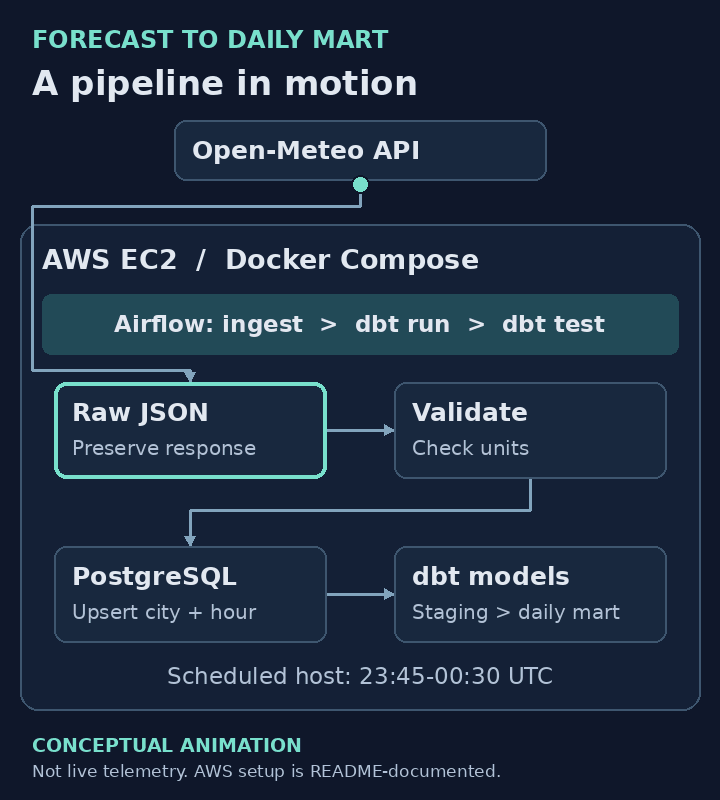
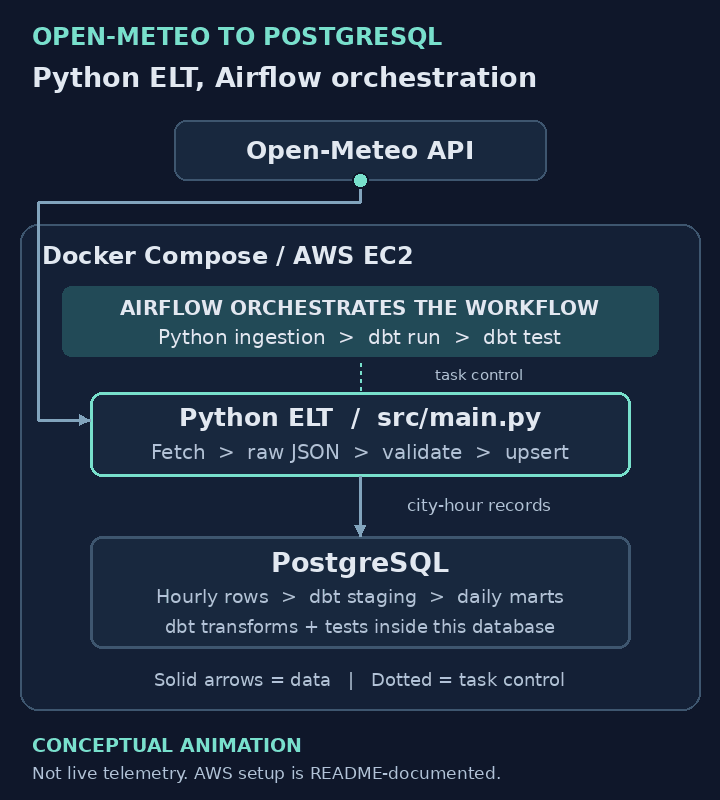
Feature Weather architecture with explicit tools and correct ELT flow

diff --git a/ui/portfolio.css b/ui/portfolio.css
@@ -454,3 +454,84 @@ button[kind="primaryFormSubmit"]:focus-visible,
 button[kind="primaryFormSubmit"]:active { background: #A2F0DF !important; border-color: #A2F0DF !important; }
 a.portfolio-button, a.portfolio-button:hover,
 a.portfolio-button:focus-visible { text-decoration: none !important; }
+
+
+/* Featured Weather architecture: tools, data path and control plane stay distinct. */
+.pa-project-weather, .pa-project-weather.pa-project-compact {
+    grid-column: 1 / -1; display: flex; flex-direction: column; gap: 22px;
+    padding: 22px; container-type: inline-size; container-name: weather-card;
+    border-color: #3D626C; background: #121F33;
+}
+.wxa { width: 100%; background: #0E192B; border: 1px solid #30475E; border-radius: 10px; padding: 20px; }
+.wxa-heading { display: flex; flex-wrap: wrap; justify-content: space-between; gap: 8px; margin-bottom: 20px; color: #9EB6D0; font: 9px/1.6 monospace; letter-spacing: .1em; }
+.wxa-heading > span:last-child { color: #78E1CD; }
+.wxa-icon { width: 30px; height: 30px; flex: 0 0 30px; color: #8DAFCB; }
+.wxa-icon-python { color: #F2D284; }
+.wxa-icon-postgres { color: #8AB7E5; }
+.wxa-icon-airflow { color: #78E1CD; }
+.wxa-icon-dbt { color: #FFB7A3; }
+.wxa-icon-docker { color: #82C5EB; }
+.wxa-icon-aws { color: #F2C17C; }
+.wxa-orchestrator { display: flex; align-items: center; justify-content: space-between; flex-wrap: wrap; gap: 16px; border: 1px solid #3F776F; border-left: 3px solid #78E1CD; border-radius: 6px; padding: 14px 16px; background: #17313B; }
+.wxa-tool { display: flex; align-items: center; gap: 12px; }
+.wxa-tool strong { color: #E2F8F3; font-size: 14px; display: block; font-weight: 650; }
+.wxa-tool span { display: block; color: #A9C9CD; font-size: 11px; margin-top: 3px; }
+.wxa-tasks { display: flex; flex-wrap: wrap; align-items: center; gap: 6px; color: #CBE2E5; font: 10px/1.6 monospace; }
+.wxa-tasks > span { border: 1px solid #385C65; border-radius: 4px; padding: 4px 6px; background: #142B36; }
+.wxa-tasks b { color: #78E1CD; font-weight: 400; }
+.wxa-control { height: 38px; display: flex; align-items: center; justify-content: center; color: #A2C5CA; font: 10px/1.5 monospace; }
+.wxa-control span { background: #0E192B; padding: 3px 10px; border-left: 1px dashed #619F9A; border-right: 1px dashed #619F9A; }
+.wxa-data-path { display: grid; grid-template-columns: minmax(0,.9fr) 22px minmax(0,1fr) 22px minmax(0,1.15fr); align-items: stretch; gap: 8px; }
+.wxa-node { display: flex; align-items: flex-start; gap: 12px; min-width: 0; background: #16263B; border: 1px solid #354D68; border-radius: 7px; padding: 16px 12px; }
+.wxa-node > div { min-width: 0; flex: 1; }
+.wxa-node .wxa-icon { width: 24px; height: 24px; flex-basis: 24px; margin-top: 18px; }
+.wxa-node small { display: block; color: #9AB4CE; font: 8px/1.5 monospace; letter-spacing: .05em; margin-bottom: 7px; }
+.wxa-node strong { color: #E2EAF6; font-size: 13px; line-height: 1.5; display: block; }
+.wxa-node div > span { color: #B5C7DC; font-size: 11px; line-height: 1.7; display: block; margin-top: 6px; }
+.wxa-source { background: #111E30; border-style: dashed; }
+.wxa-python { border-top: 2px solid #F2D284; }
+.wxa-database { border-top: 2px solid #8AB7E5; }
+.wxa-arrow { align-self: center; text-align: center; color: #78E1CD; font-size: 22px; line-height: 1; }
+.wxa-dbt { display: flex; align-items: center; gap: 7px; border-top: 1px solid #42526A; padding-top: 9px; margin-top: 9px; }
+.wxa-dbt .wxa-icon { width: 16px; height: 16px; flex-basis: 16px; margin: 0; }
+.wxa-dbt > span { color: #C6D4E4 !important; font-size: 10px !important; line-height: 1.6 !important; margin: 0 !important; }
+.wxa-dbt b { color: #FFB7A3; font-size: 12px; }
+.wxa-runtime { display: flex; flex-wrap: wrap; gap: 14px 26px; padding-top: 16px; margin-top: 17px; border-top: 1px solid #2D4057; }
+.wxa-runtime > div { display: flex; align-items: center; gap: 9px; }
+.wxa-runtime .wxa-icon { width: 24px; height: 24px; flex-basis: 24px; }
+.wxa-runtime strong { display: block; color: #D0DDED; font-size: 11px; line-height: 1.6; }
+.wxa-runtime small { display: block; color: #A0B6CE; font-size: 10px; line-height: 1.7; }
+.wxa-note { color: #A2B6CE !important; font-size: 10px !important; line-height: 1.7 !important; margin: 14px 0 0 !important; }
+@container weather-card (max-width: 520px) {
+    .wxa { padding: 16px; }
+    .wxa-data-path { grid-template-columns: 1fr; gap: 6px; }
+    .wxa-arrow { transform: rotate(90deg); padding: 2px 0; font-size: 20px; }
+    .wxa-node { align-items: flex-start; padding: 13px 15px; gap: 14px; }
+    .wxa-node .wxa-icon { width: 30px; height: 30px; flex-basis: 30px; margin-top: 10px; }
+    .wxa-node strong { font-size: 14px; }
+    .wxa-node small { font-size: 9px; margin-bottom: 3px; }
+    .wxa-node div > span { font-size: 12px; margin-top: 3px; }
+    .wxa-dbt { padding-top: 7px; margin-top: 7px; }
+    .wxa-dbt .wxa-icon { width: 17px; height: 17px; flex-basis: 17px; margin: 0; }
+    .wxa-dbt > span { font-size: 11px !important; }
+    .wxa-orchestrator { padding: 12px; gap: 12px; }
+    .wxa-tasks { font-size: 9px; gap: 4px; }
+    .wxa-tasks > span { padding: 4px; }
+    .wxa-control { height: 35px; font-size: 9px; }
+}
+@media (max-width: 600px) {
+    .pa-project-weather, .pa-project-weather.pa-project-compact { padding: 14px; }
+    .wxa-heading { font-size: 8px; letter-spacing: .04em; margin-bottom: 13px; }
+    .wxa-heading > span:last-child { display: none; }
+}
+
+@container weather-card (min-width: 521px) {
+    .wxa-node { flex-direction: column; gap: 8px; }
+    .wxa-node .wxa-icon { margin: 0; }
+    .wxa-node > div { width: 100%; }
+}
+
+.pa-project-weather .wxa-intro .pa-project-title { font-size: 30px !important; margin-top: 8px !important; }
+.pa-project-weather .wxa-intro .pa-project-description { max-width: 760px; margin-bottom: 0 !important; }
+.pa-project-weather .wxa-details .pa-project-metric { margin-top: 0 !important; }
+@media (max-width: 600px) { .pa-project-weather .wxa-intro .pa-project-title { font-size: 25px !important; } }

diff --git a/ui/project_cards.py b/ui/project_cards.py
@@ -6,15 +6,52 @@ from ui.navigation import route_href
 
 
 PREVIEW_STAGES = {
-    "weather-forecast-data-platform": ("Open-Meteo API", "PostgreSQL", "dbt marts"),
+    "weather-forecast-data-platform": ("Open-Meteo API", "Python ELT", "PostgreSQL"),
     "job-market-intelligence": ("Raw data", "PostgreSQL", "dbt marts"),
     "ecommerce-sales-analysis": ("Raw CSV", "Pandas", "Result tables"),
 }
 PREVIEW_NOTES = {
-    "weather-forecast-data-platform": "Airflow: ingest → model → test",
+    "weather-forecast-data-platform": "Airflow orchestrates Python ELT + dbt models/tests",
     "job-market-intelligence": "Warehouse path · separate CSV dashboard",
     "ecommerce-sales-analysis": "Data quality before aggregation",
 }
+
+
+def tool_icon(name: str) -> str:
+    paths = {
+        "api": '<path d="M7 16H6a4 4 0 0 1-.4-8A6 6 0 0 1 17 6a5 5 0 0 1 1 10h-1"/><path d="m9 13-3 3 3 3m6-6 3 3-3 3m-3-7-1 9"/>',
+        "python": '<path d="M6 11V6q0-3 6-3t6 3v5H9q-4 0-4 4v3H3V11z"/><path d="M18 13v5q0 3-6 3t-6-3v-5h9q4 0 4-4V6h2v7z"/><circle cx="10" cy="6" r=".8"/><circle cx="14" cy="18" r=".8"/>',
+        "postgres": '<ellipse cx="12" cy="5" rx="8" ry="3"/><path d="M4 5v14c0 4 16 4 16 0V5M4 12c0 4 16 4 16 0"/>',
+        "airflow": '<path d="M12 12 6 3Q1 4 4 9Zm0 0 9-6q3 5-3 7Zm0 0 6 9q-5 3-7-3Zm0 0-9 6q-3-5 3-7Z"/>',
+        "docker": '<path d="M3 13h17q-1 8-9 8-7 0-8-8Zm17 0q3-1 2-4M5 9h4v4H5zm5 0h4v4h-4zm5 0h4v4h-4zM10 4h4v4h-4z"/>',
+        "dbt": '<path d="m4 4 16 16M4 20 20 4M8 8h8v8H8z"/>',
+        "aws": '<path d="M5 14H4a4 4 0 0 1 0-8 6 6 0 0 1 11-2 5 5 0 1 1 4 10M4 19q8 5 16-1m-4 0h4v4"/>',
+    }
+    return f'<svg class="wxa-icon wxa-icon-{name}" viewBox="0 0 24 24" fill="none" stroke="currentColor" stroke-width="1.4" stroke-linecap="round" stroke-linejoin="round" aria-hidden="true">{paths[name]}</svg>'
+
+
+def weather_architecture_html() -> str:
+    """A schematic, not live telemetry. Tool names remain visible at phone width."""
+    return (
+        '<section class="wxa" aria-label="Weather project architecture">'
+        '<div class="wxa-heading"><span>WEATHER / ARCHITECTURE</span><span>IMPLEMENTED IN CODE</span></div>'
+        '<div class="wxa-orchestrator">'
+        f'<div class="wxa-tool">{tool_icon("airflow")}<div><strong>Apache Airflow</strong><span>Workflow orchestration</span></div></div>'
+        '<div class="wxa-tasks"><span>Python</span><b>→</b><span>dbt run</span><b>→</b><span>dbt test</span></div>'
+        '</div><div class="wxa-control"><span>Schedules and retries the workflow</span></div>'
+        '<div class="wxa-data-path" aria-label="Open-Meteo API to Python ELT to PostgreSQL">'
+        f'<div class="wxa-node wxa-source">{tool_icon("api")}<div><small>01 / EXTRACT FROM</small><strong>Open-Meteo API</strong><span>Hourly forecast JSON</span></div></div>'
+        '<span class="wxa-arrow" aria-hidden="true">→</span>'
+        f'<div class="wxa-node wxa-python">{tool_icon("python")}<div><small>02 / INGEST WITH</small><strong>Python ELT</strong><span>Save raw JSON · validate units<br>Upsert city-hour records</span></div></div>'
+        '<span class="wxa-arrow" aria-hidden="true">→</span>'
+        f'<div class="wxa-node wxa-database">{tool_icon("postgres")}<div><small>03 / LOAD INTO</small><strong>PostgreSQL</strong><span>Hourly records</span>'
+        f'<div class="wxa-dbt">{tool_icon("dbt")}<span><b>dbt models + tests</b><br>Staging → daily marts</span></div></div></div>'
+        '</div><div class="wxa-runtime">'
+        f'<div>{tool_icon("docker")}<span><strong>Docker Compose</strong><small>Container runtime</small></span></div>'
+        f'<div>{tool_icon("aws")}<span><strong>AWS EC2</strong><small>README-documented deployment</small></span></div>'
+        '</div><p class="wxa-note">Architecture schematic, not live telemetry. dbt runs in PostgreSQL. AWS deployment is not independently verified.</p>'
+        '</section>'
+    )
 
 
 def project_card_html(project: dict, *, index: int = 1, compact: bool = False) -> str:
@@ -41,18 +78,29 @@ def project_card_html(project: dict, *, index: int = 1, compact: bool = False) -
         if repository else ""
     )
     classes = "pa-project pa-project-compact" if compact else "pa-project"
-    return (
-        f'<article class="{classes}">'
-        '<div class="pa-project-map">'
-        f'<div class="pa-map-top"><span>IMPLEMENTATION MAP</span><span>{index:02}</span></div>'
-        f'<div class="pa-map-flow">{nodes}</div>'
-        f'<p class="pa-map-note">{html.escape(PREVIEW_NOTES.get(slug, "Project workflow"))}</p>'
-        '</div><div class="pa-project-body">'
+    if slug == "weather-forecast-data-platform":
+        classes += " pa-project-weather"
+        map_markup = weather_architecture_html()
+    else:
+        map_markup = (
+            '<div class="pa-project-map">'
+            f'<div class="pa-map-top"><span>IMPLEMENTATION MAP</span><span>{index:02}</span></div>'
+            f'<div class="pa-map-flow">{nodes}</div>'
+            f'<p class="pa-map-note">{html.escape(PREVIEW_NOTES.get(slug, "Project workflow"))}</p></div>'
+        )
+    intro = (
         f'<div class="pa-project-category">{html.escape(project.get("category", ""))}<span>{html.escape(project.get("status", ""))}</span></div>'
         f'<h2 class="pa-project-title">{html.escape(project["title"])}</h2>'
-        f'<p class="pa-project-description">{html.escape(project["short_description"])}</p>'
+        f'<p class="pa-project-description">{html.escape(project.get("short_description", ""))}</p>'
+    )
+    details = (
         f'<p class="pa-project-metric">{html.escape(project.get("key_metric", ""))}</p>'
         f'<div class="pa-tags">{tags}</div>'
         f'<div class="pa-project-actions"><a class="pa-button pa-button-ink" href="{html.escape(primary_url, quote=True)}" target="_self">{primary_label} <span aria-hidden="true">↗</span></a>{secondary}{source}</div>'
-        '</div></article>'
     )
+    if slug == "weather-forecast-data-platform":
+        return (
+            f'<article class="{classes}"><div class="pa-project-body wxa-intro">{intro}</div>'
+            f'{map_markup}<div class="pa-project-body wxa-details">{details}</div></article>'
+        )
+    return f'<article class="{classes}">{map_markup}<div class="pa-project-body">{intro}{details}</div></article>'

diff --git a/views/weather_pipeline.py b/views/weather_pipeline.py
@@ -33,7 +33,7 @@ markup(f'''
     <p class="pa-eyebrow">FEATURED CASE STUDY / DATA ENGINEERING</p>
     <h1>Weather Forecast<br>Data Platform<span>.</span></h1>
     <p class="wx-hero-lead">A daily forecast pipeline, built to rerun safely and fail visibly.</p>
-    <p class="wx-hero-copy">Open-Meteo forecasts for Cairo and Alexandria, preserved as raw JSON, validated before loading, and modeled into Cairo-local daily marts.</p>
+    <p class="wx-hero-copy">Open-Meteo API → Python ELT → PostgreSQL. Python preserves raw JSON, validates units and upserts hourly rows for Cairo and Alexandria. dbt builds Cairo-local daily marts in PostgreSQL; Airflow orchestrates the full workflow.</p>
     <div class="pa-tags"><span>Python</span><span>PostgreSQL</span><span>dbt</span><span>Apache Airflow</span><span>Docker Compose</span><span>AWS EC2</span></div>
     <div class="pa-hero-actions"><a class="pa-button pa-button-copper" href="{REPOSITORY}" target="_blank" rel="noopener noreferrer">Explore source code ↗</a><a class="pa-button pa-button-outline" href="./weather_dashboard" target="_self">Explore Dashboard (sample) ↗</a><a class="pa-button pa-button-outline" href="#pipeline" target="_self">Follow the pipeline ↓</a></div>
 </section>
@@ -46,21 +46,21 @@ markup(f'''
 </div>
 <div id="pipeline"></div>
 ''')
-heading("01 / THE DATA PATH", "One forecast, every layer.", "Airflow orchestrates the workflow. The ingestion script stores the raw response before validation and database writes.")
+heading("01 / THE DATA PATH", "One forecast, every layer.", "Data path: Open-Meteo API → Python ELT → PostgreSQL. Airflow orchestrates Python ingestion, dbt models and tests; it is not a data-storage step.")
 # Local static assets only; toggling playback does not contact the source systems.
 play_animation = st.toggle("Play conceptual pipeline animation", value=True, key="weather_pipeline_animation")
 with st.container(key="weather_pipeline_figure"):
     st.image(
         str(ROOT / "assets/projects/weather" / ("pipeline-flow.gif" if play_animation else "pipeline-flow-still.png")),
-        caption="Conceptual animation, not live telemetry. Arrows show data movement; Airflow orchestrates the tasks inside Docker on the README-documented EC2 host.",
+        caption="Conceptual animation, not live telemetry. Solid arrows show Open-Meteo API → Python ELT → PostgreSQL. Airflow orchestrates Python ingestion, dbt run and dbt test. dbt builds models in PostgreSQL, not a separate data store. AWS hosting is README-documented.",
         use_container_width=True,
     )
 steps = [
-    ("01", "Fetch", "Open-Meteo API", "Five hourly variables, 14-day horizon, 30-second request timeout."),
-    ("02", "Preserve", "Timestamped raw JSON", "Keep the API response in data/raw before checking units or loading."),
-    ("03", "Validate", "Units before writes", "Temperature, precipitation, humidity, wind and cloud-cover units must match."),
-    ("04", "Load", "PostgreSQL upsert", "ON CONFLICT (city, time) DO UPDATE refreshes revised forecast values."),
-    ("05", "Model", "dbt staging → daily mart", "Keep UTC traceability; group metrics by Africa/Cairo calendar day."),
+    ("01", "Extract", "Python ELT ← Open-Meteo", "src/main.py requests five hourly variables with a 14-day horizon and a 30-second timeout."),
+    ("02", "Preserve", "Python → raw JSON", "Python keeps the API response in data/raw before checking units or loading."),
+    ("03", "Validate", "Python unit checks", "Temperature, precipitation, humidity, wind and cloud-cover units must match before loading."),
+    ("04", "Load", "Python → PostgreSQL", "Python upserts city-hour records. ON CONFLICT (city, time) DO UPDATE refreshes revised forecast values."),
+    ("05", "Transform", "dbt inside PostgreSQL", "After the load, dbt builds staging and daily marts in PostgreSQL, preserving UTC traceability and Cairo-local days."),
     ("06", "Test", "Schema + grain checks", "Not-null tests and a singular city/day uniqueness test."),
 ]
 markup('<div class="wx-pipeline">' + ''.join(f'<article><span class="wx-step-number">{number} / {label}</span><h3>{title}</h3><p>{detail}</p></article>' for number, label, title, detail in steps) + '</div>')

diff --git a/portfolio/content/projects.py b/portfolio/content/projects.py
@@ -85,10 +85,10 @@ PROJECTS = [
         "title": "Weather Forecast Data Platform",
         "short_description": (
             "Daily ELT pipeline for Egyptian cities using the Open-Meteo API, "
-            "PostgreSQL upserts, dbt models, Docker, and Apache Airflow."
+            "Python ELT, PostgreSQL upserts, dbt models, and Airflow orchestration."
         ),
         "full_description": (
-            "Fetches hourly weather forecasts, saves raw JSON, validates units, "
+            "Python ELT fetches hourly weather forecasts, saves raw JSON, validates units, "
             "upserts city-hour records, and builds Cairo-local daily marts."
         ),
         "category": "Data Engineering",
@@ -111,8 +111,9 @@ PROJECTS = [
                 "visible failures, and consistent timestamps."
             ),
             "Project summary": (
-                "Open-Meteo API -> raw JSON -> validated PostgreSQL upserts -> "
-                "dbt staging and daily marts, orchestrated with Airflow."
+                "Open-Meteo API -> Python ELT -> PostgreSQL. Python preserves raw JSON, "
+                "validates units and upserts hourly rows. dbt builds staging and daily marts "
+                "in PostgreSQL. Airflow orchestrates Python ingestion, dbt run and dbt test."
             ),
         },
     },

diff --git a/tests/test_project_cards.py b/tests/test_project_cards.py
@@ -13,7 +13,18 @@ class ProjectCardTest(unittest.TestCase):
         self.assertIn('href="./weather_pipeline"', markup)
         self.assertIn("View case study", markup)
         self.assertNotIn("Live Demo", markup)
-        self.assertIn("Airflow: ingest", markup)
+        self.assertIn('class="wxa-orchestrator"', markup)
+        self.assertIn("Apache Airflow", markup)
+        self.assertIn("Workflow orchestration", markup)
+        flow = markup[markup.index('class="wxa-data-path"'):]
+        stages = [flow.index(label) for label in ("Open-Meteo API", "Python ELT", "PostgreSQL")]
+        self.assertEqual(stages, sorted(stages))
+        for tool in ("Python ELT", "PostgreSQL", "dbt", "Apache Airflow", "Docker Compose", "AWS EC2"):
+            self.assertIn(tool, markup)
+        self.assertIn("README-documented deployment", markup)
+        self.assertIn("not independently verified", markup)
+        self.assertIn("not live telemetry", markup)
+        self.assertLess(markup.index('class="wxa-orchestrator"'), markup.index('class="wxa-data-path"'))
         self.assertIn(weather["repository_url"], markup)
 
     def test_job_market_map_does_not_imply_dbt_dashboard_feed(self) -> None:

diff --git a/views/projects.py b/views/projects.py
@@ -8,11 +8,12 @@ from ui.components import project_card
 st.markdown('<section class="mn-project-index"><h1>Selected work.</h1></section>', unsafe_allow_html=True)
 
 projects = sorted(PROJECTS, key=lambda item: item.get("sort_order", 999))
-if len(projects) == 1:
-    project_card(projects[0], actions=True, featured=True)
-else:
-    for row_start in range(0, len(projects), 2):
-        columns = st.columns(2)
-        for column, (index, project) in zip(columns, enumerate(projects[row_start : row_start + 2], start=row_start + 1)):
-            with column:
-                project_card(project, actions=True, index=index)
+weather = next((project for project in projects if project["slug"] == "weather-forecast-data-platform"), None)
+if weather:
+    project_card(weather, actions=True, featured=True, index=1)
+remaining = [project for project in projects if project is not weather]
+for row_start in range(0, len(remaining), 2):
+    columns = st.columns(2)
+    for column, (index, project) in zip(columns, enumerate(remaining[row_start : row_start + 2], start=row_start + 2)):
+        with column:
+            project_card(project, actions=True, index=index)

diff --git a/tests/test_weather_case_study.py b/tests/test_weather_case_study.py
@@ -50,6 +50,9 @@ class WeatherCaseStudyTest(unittest.TestCase):
         self.assertIn('Next improvements, not completed features', view)
         self.assertIn('Conceptual animation, not live telemetry', view)
         self.assertIn('Play conceptual pipeline animation', view)
+        self.assertIn('Open-Meteo API → Python ELT → PostgreSQL', view)
+        self.assertIn('dbt builds models in PostgreSQL, not a separate data store', view)
+        self.assertIn('Airflow orchestrates Python ingestion, dbt run and dbt test', view)
         self.assertNotIn('requests.get', view)
         self.assertNotIn('read_sql', view)
 

diff --git a/README.md b/README.md
@@ -464,6 +464,15 @@ The portfolio uses anonymous Google Analytics 4 usage analytics to understand pa
 * `views/`: portfolio pages and project views, including the Weather pipeline case study.
 * `views/market_dashboard.py`: interactive dashboard with KPI cards, filters, Plotly charts, and plain-English chart explanations.
 
+### Weather project data path
+
+`Open-Meteo API -> Python ELT (src/main.py) -> PostgreSQL`
+
+Python fetches the forecasts, preserves timestamped raw JSON in `data/raw`, validates units, and upserts hourly city records. After loading, dbt builds staging and Cairo-local daily marts **in PostgreSQL**, then tests them. Airflow orchestrates the complete workflow: Python ingestion -> dbt run -> dbt test. Airflow is not a data store, and dbt is not a separate database.
+
+The project-card map is a simplified data path. The case-study animation is conceptual, not live telemetry. AWS deployment is README-documented project evidence, not independently verified current infrastructure; the portfolio's sample Weather dashboard is separate and uses fixed synthetic values.
+
+
 Dashboard features include:
 
 * Total postings, companies, countries, skills, average salary, median salary, remote share, and salary coverage.
